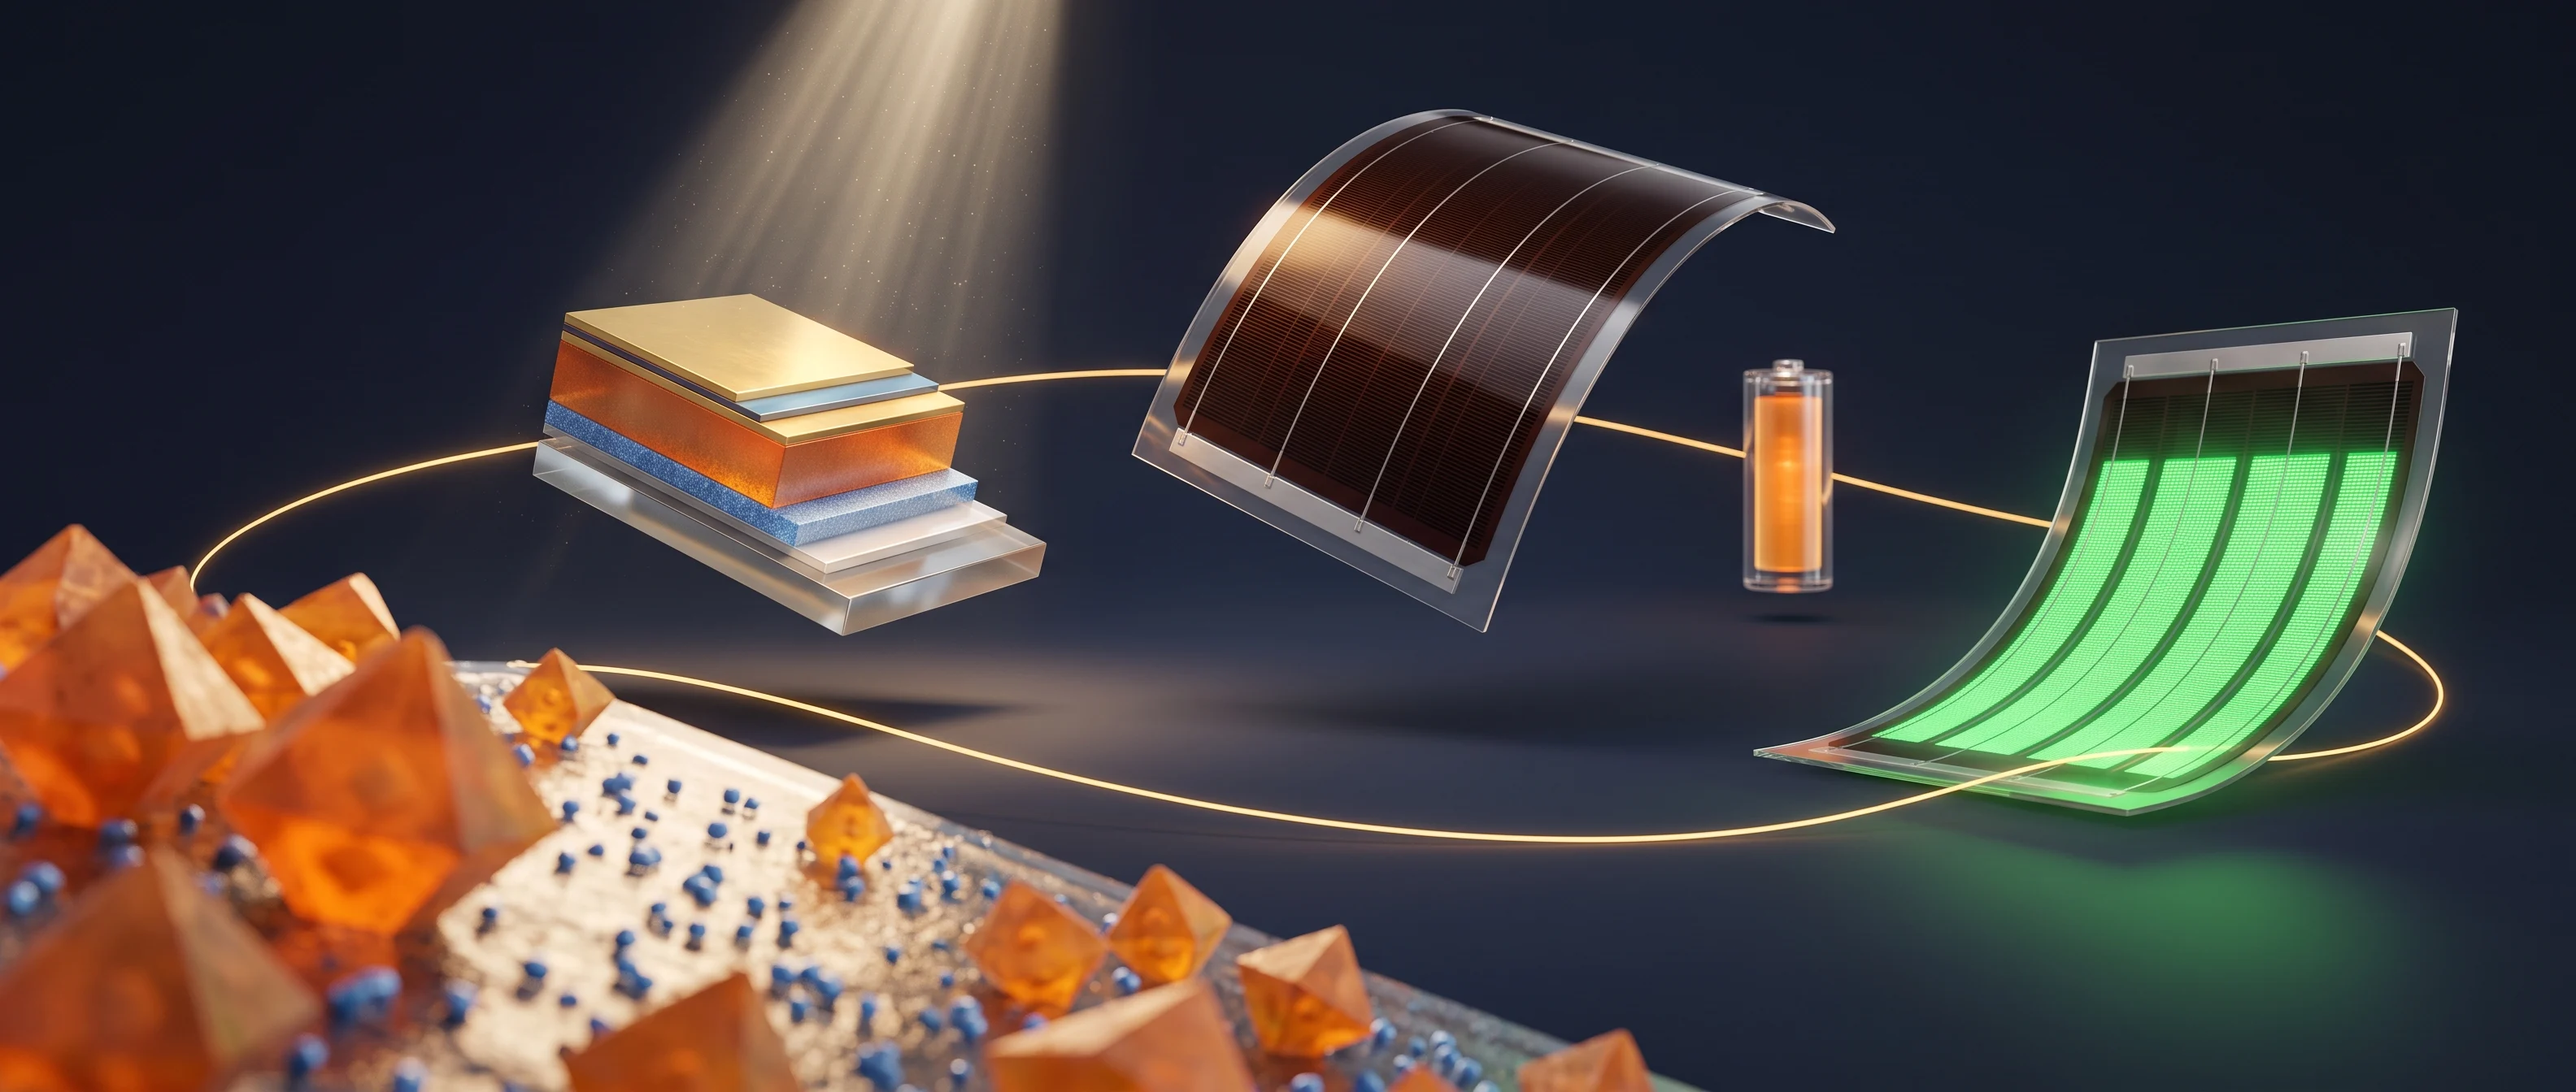
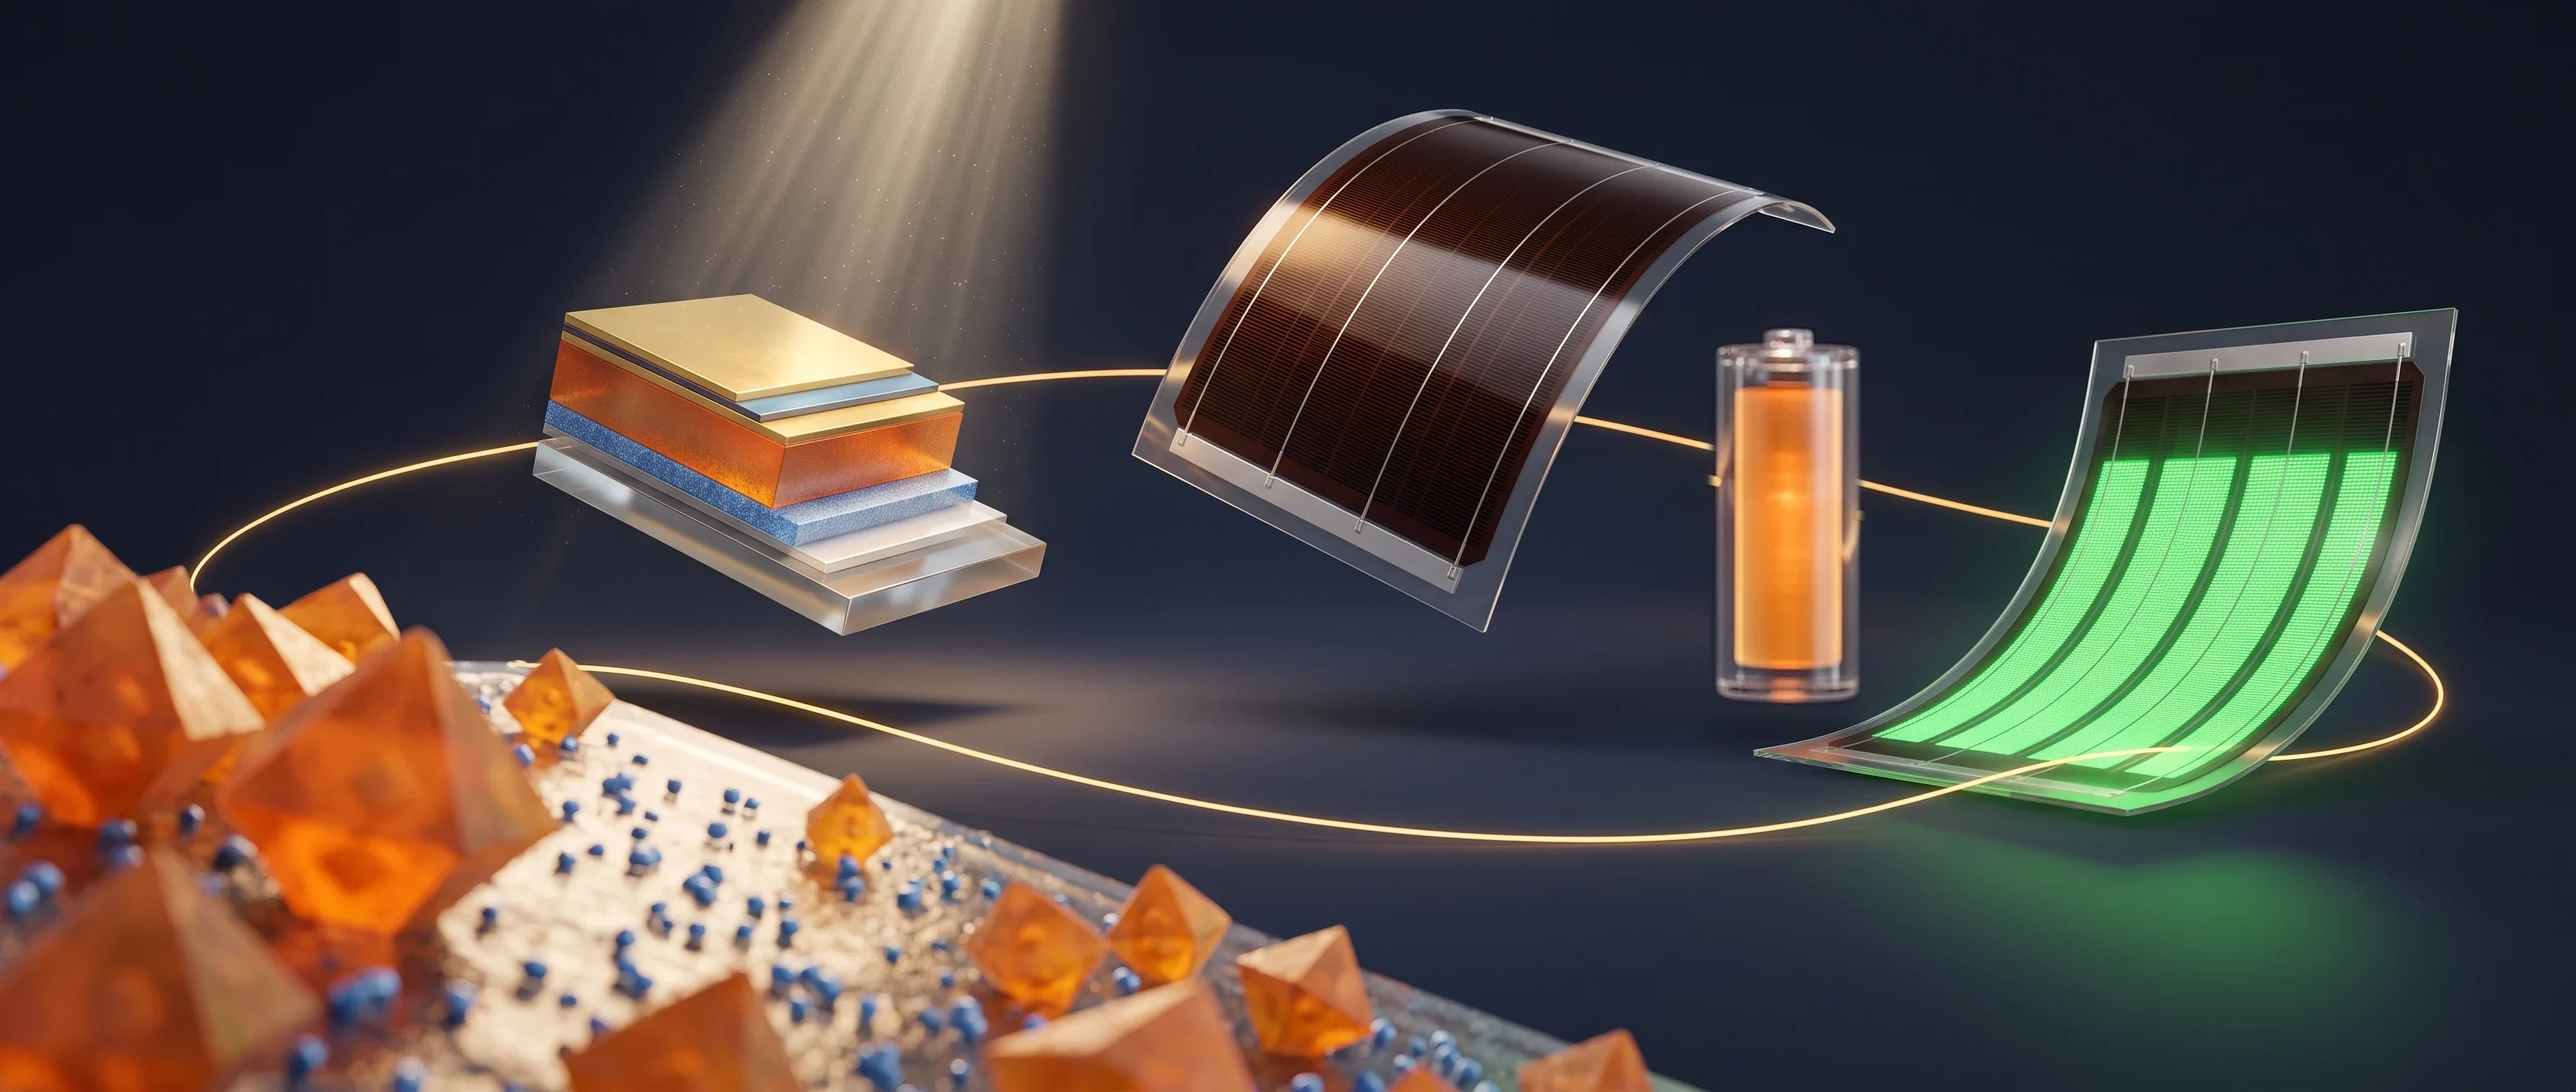
Preview: enlarge battery in overview figure (not published)
Claude-Session: https://claude.ai/code/session_01VQnYcHP4KMgwg4WwjxX8tW

Changed region(s): [[0.6562, 0.2812, 0.75, 0.6875]]

diff --git a/research.html b/research.html
@@ -28,7 +28,7 @@
 </div>
 </header>
 <main>
-<section class="page-head"><div class="wrap"><p class="crumb">Research</p><h1>Research</h1><p>기능성 산화물 소재와 유무기 하이브리드 소재의 합성 원리를 규명하고, 이를 태양전지, 발광다이오드, 수소 생산, 이차전지와 하이브리드 에너지 시스템으로 확장합니다.</p></div></section><section class="section"><div class="wrap"><figure class="overview"><div class="ov-wrap"><img src="assets/img/research/overview-flow.webp" alt="연구 흐름: 산화물·페로브스카이트 소재, 태양전지, 대면적 플렉서블 모듈, 에너지 저장, 발광 소자"><span class="ov-l l" style="left:3%;top:90%">산화물 · 페로브스카이트 소재</span><span class="ov-l c" style="left:30%;top:61%">태양전지 · 탠덤</span><span class="ov-l c" style="left:57%;top:66%">대면적 플렉서블 모듈</span><span class="ov-l c" style="left:69.5%;top:59%">에너지 저장</span><span class="ov-l c" style="left:84%;top:90%">발광 (LED)</span></div><figcaption>소재 → 태양전지 → 대면적 플렉서블 모듈 → 에너지 저장 → 발광</figcaption></figure>
+<section class="page-head"><div class="wrap"><p class="crumb">Research</p><h1>Research</h1><p>기능성 산화물 소재와 유무기 하이브리드 소재의 합성 원리를 규명하고, 이를 태양전지, 발광다이오드, 수소 생산, 이차전지와 하이브리드 에너지 시스템으로 확장합니다.</p></div></section><section class="section"><div class="wrap"><figure class="overview"><div class="ov-wrap"><img src="assets/img/research/overview-flow.webp" alt="연구 흐름: 산화물·페로브스카이트 소재, 태양전지, 대면적 플렉서블 모듈, 에너지 저장, 발광 소자"><span class="ov-l l" style="left:3%;top:90%">산화물 · 페로브스카이트 소재</span><span class="ov-l c" style="left:30%;top:61%">태양전지 · 탠덤</span><span class="ov-l c" style="left:53.5%;top:60.5%">대면적 플렉서블 모듈</span><span class="ov-l c" style="left:68.6%;top:67.5%">에너지 저장</span><span class="ov-l c" style="left:84%;top:90%">발광 (LED)</span></div><figcaption>소재 → 태양전지 → 대면적 플렉서블 모듈 → 에너지 저장 → 발광</figcaption></figure>
 <div class="rblock" id="synthesis">
 <p class="eyebrow">01</p>
 <h2>Oxide &amp; Hybrid Semiconductor Materials</h2>

diff --git a/build.py b/build.py
@@ -368,7 +368,7 @@ def build_alumni():
 
 
 # ---------- research ----------
-OVERVIEW = ('<figure class="overview"><div class="ov-wrap"><img src="assets/img/research/overview-flow.webp" alt="연구 흐름: 산화물·페로브스카이트 소재, 태양전지, 대면적 플렉서블 모듈, 에너지 저장, 발광 소자"><span class="ov-l l" style="left:3%;top:90%">산화물 · 페로브스카이트 소재</span><span class="ov-l c" style="left:30%;top:61%">태양전지 · 탠덤</span><span class="ov-l c" style="left:57%;top:66%">대면적 플렉서블 모듈</span><span class="ov-l c" style="left:69.5%;top:59%">에너지 저장</span><span class="ov-l c" style="left:84%;top:90%">발광 (LED)</span></div><figcaption>소재 → 태양전지 → 대면적 플렉서블 모듈 → 에너지 저장 → 발광</figcaption></figure>')
+OVERVIEW = ('<figure class="overview"><div class="ov-wrap"><img src="assets/img/research/overview-flow.webp" alt="연구 흐름: 산화물·페로브스카이트 소재, 태양전지, 대면적 플렉서블 모듈, 에너지 저장, 발광 소자"><span class="ov-l l" style="left:3%;top:90%">산화물 · 페로브스카이트 소재</span><span class="ov-l c" style="left:30%;top:61%">태양전지 · 탠덤</span><span class="ov-l c" style="left:53.5%;top:60.5%">대면적 플렉서블 모듈</span><span class="ov-l c" style="left:68.6%;top:67.5%">에너지 저장</span><span class="ov-l c" style="left:84%;top:90%">발광 (LED)</span></div><figcaption>소재 → 태양전지 → 대면적 플렉서블 모듈 → 에너지 저장 → 발광</figcaption></figure>')
 
 
 def build_research():
